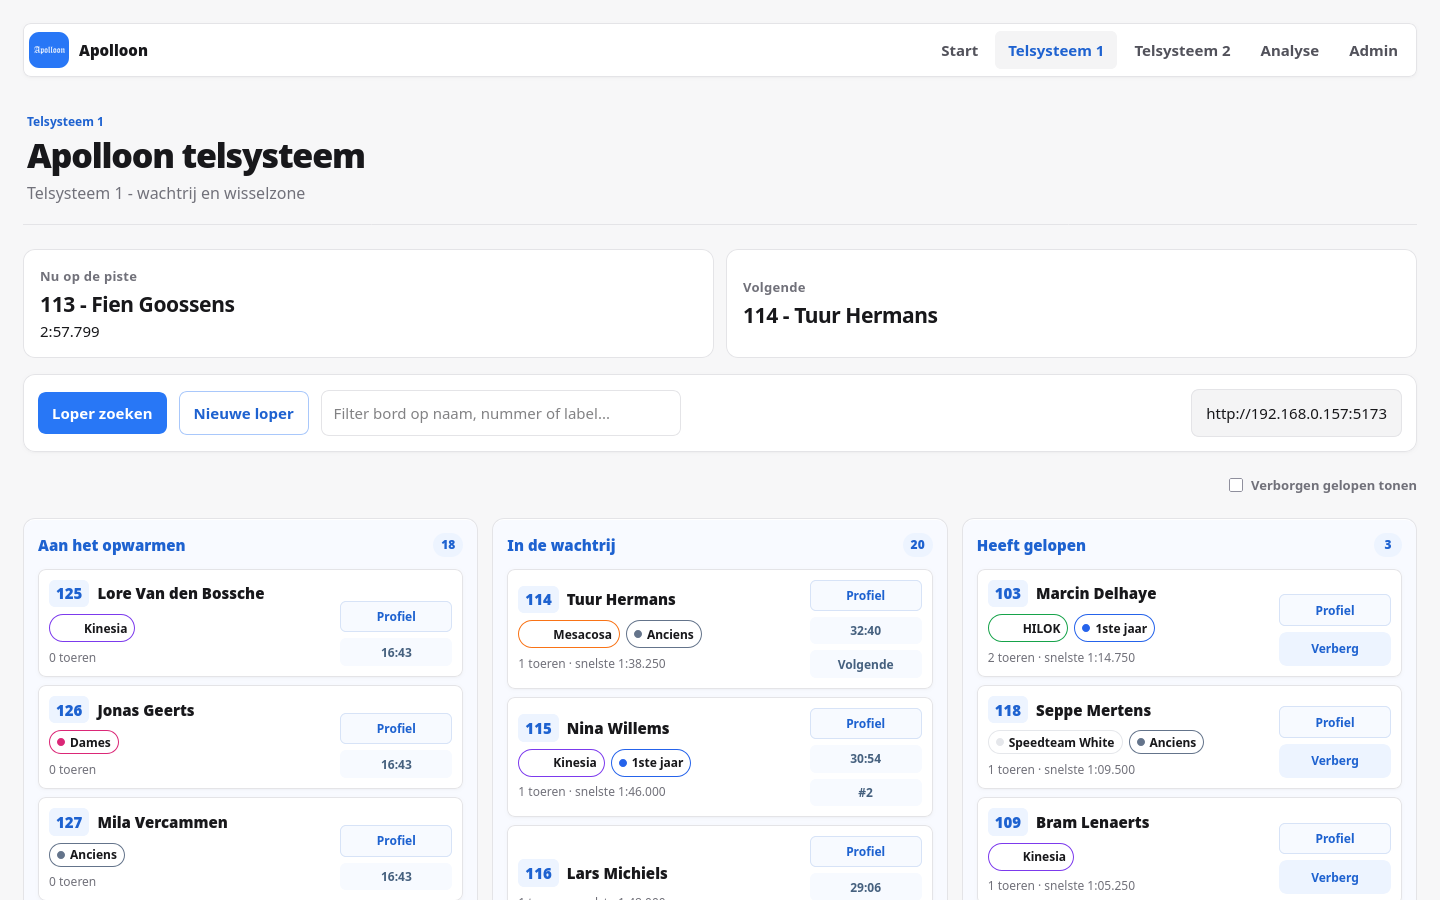
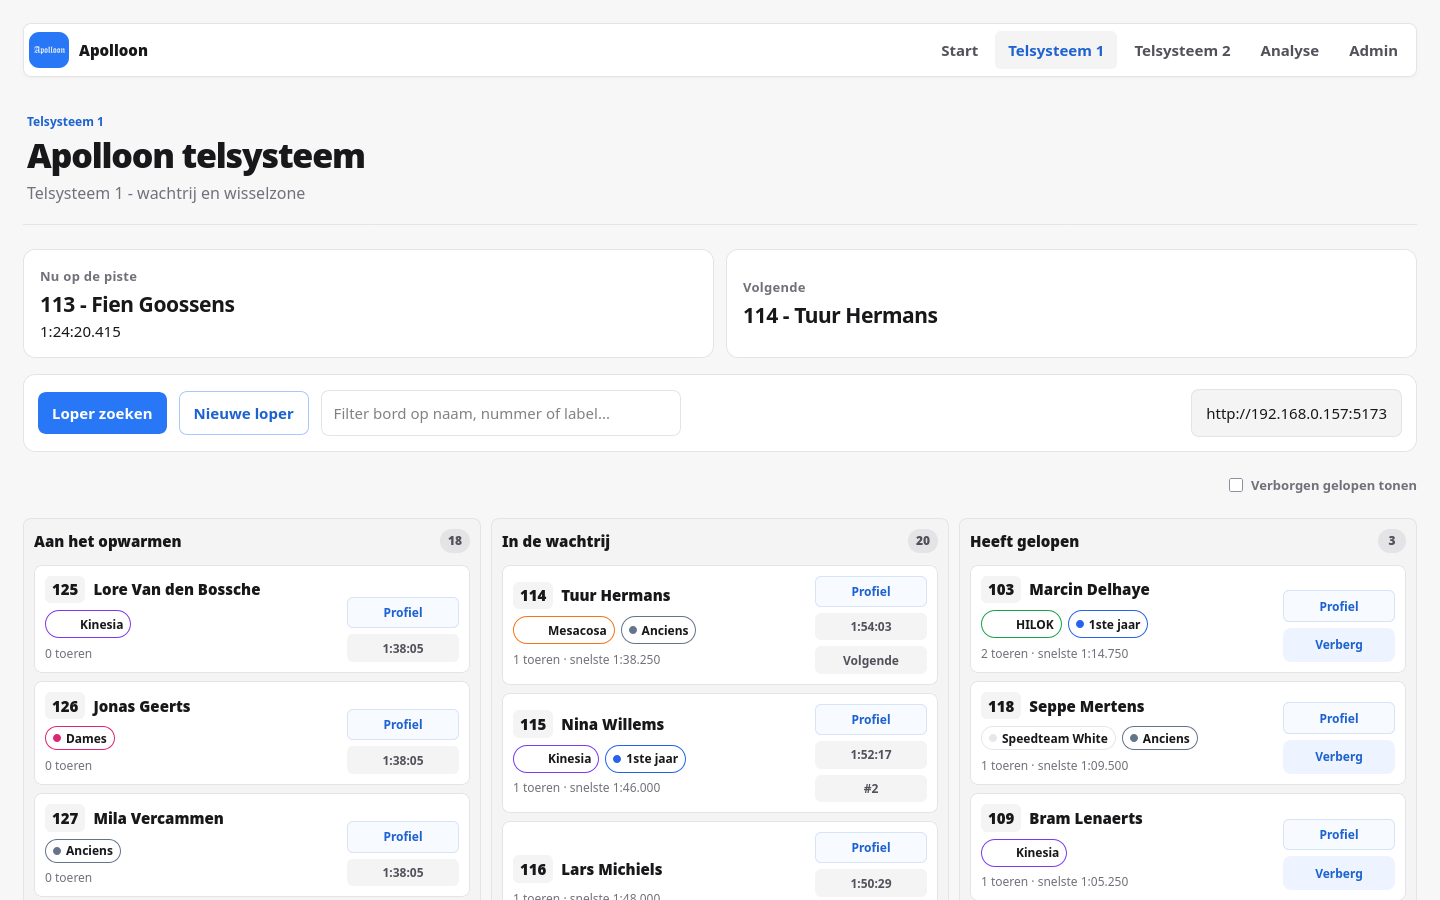
Redesign operator workspaces with quieter hierarchy

diff --git a/src/styles.css b/src/styles.css
@@ -345,7 +345,7 @@ select {
   background: var(--panel);
   border: 1px solid var(--line);
   border-radius: var(--radius-lg);
-  box-shadow: var(--shadow-xs);
+  box-shadow: none;
 }
 
 .export-row {
@@ -768,7 +768,7 @@ select {
 .kanban {
   display: grid;
   grid-template-columns: repeat(auto-fit, minmax(280px, 1fr));
-  gap: 14px;
+  gap: 10px;
 }
 
 .board-toolbar {
@@ -789,10 +789,10 @@ select {
 .column {
   min-height: 220px;
   border: 1px solid var(--line);
-  border-radius: var(--radius-lg);
-  background: #f8faff;
-  padding: 14px;
-  box-shadow: inset 0 1px 0 rgba(255, 255, 255, 0.9);
+  border-radius: var(--radius-md);
+  background: var(--panel-soft);
+  padding: 10px;
+  box-shadow: none;
   transition: border-color 140ms ease, background-color 140ms ease, box-shadow 140ms ease;
 }
 
@@ -808,7 +808,7 @@ select {
   align-items: center;
   gap: 8px;
   margin-bottom: 12px;
-  color: var(--blue-dark);
+  color: var(--text);
   font-size: 15px;
   font-weight: 800;
 }
@@ -816,8 +816,8 @@ select {
 .column-count {
   min-width: 28px;
   border-radius: var(--radius-pill);
-  background: var(--blue-soft);
-  color: var(--blue-dark);
+  background: var(--panel-strong);
+  color: var(--muted-strong);
   padding: 3px 8px;
   font-size: 12px;
   font-weight: 800;
@@ -842,13 +842,13 @@ select {
   border-radius: var(--radius-md);
   background: var(--panel);
   padding: 10px;
-  box-shadow: var(--shadow-xs);
+  box-shadow: none;
   transition: border-color 140ms ease, box-shadow 140ms ease;
 }
 
 .card:hover {
-  border-color: rgba(40, 119, 246, 0.35);
-  box-shadow: var(--shadow-sm);
+  border-color: var(--line-strong);
+  box-shadow: none;
 }
 
 .card--dragging {
@@ -896,8 +896,8 @@ select {
 
 .runner-number {
   border-radius: var(--radius-sm);
-  background: var(--blue-soft);
-  color: var(--blue-dark);
+  background: var(--panel-soft);
+  color: var(--text);
   padding: 3px 7px;
 }
 
@@ -979,8 +979,8 @@ select {
 .timer-badge,
 .queue-badge {
   border-radius: var(--radius-sm);
-  background: var(--blue-faint);
-  color: #46617f;
+  background: var(--panel-soft);
+  color: var(--muted-strong);
   padding: 5px 9px;
   font-size: 12px;
   font-weight: 700;
@@ -1061,7 +1061,7 @@ select {
 .timing-grid {
   display: grid;
   grid-template-columns: repeat(auto-fit, minmax(280px, 1fr));
-  gap: 16px;
+  gap: 12px;
 }
 
 .timing-card {
@@ -1069,19 +1069,20 @@ select {
   background: var(--panel);
   padding: clamp(20px, 4vw, 34px);
   border: 1px solid var(--line);
-  border-radius: var(--radius-lg);
-  box-shadow: var(--shadow-sm);
+  border-radius: var(--radius-md);
+  box-shadow: none;
 }
 
 .timing-card--accent {
-  border-color: transparent;
-  background: linear-gradient(135deg, var(--apolloon-blue), var(--blue-dark));
-  color: #ffffff;
-  box-shadow: var(--shadow-blue);
+  border-color: var(--line);
+  border-left: 4px solid var(--apolloon-blue);
+  background: var(--panel);
+  color: var(--text);
+  box-shadow: none;
 }
 
 .timing-card--accent .muted-label {
-  color: rgba(255, 255, 255, 0.84);
+  color: var(--blue-dark);
 }
 
 .timing-card strong {
@@ -1099,13 +1100,17 @@ select {
   font-weight: 800;
 }
 
+.timing-card--accent .live-time {
+  color: var(--blue-dark);
+}
+
 .handoff-preview {
   margin-top: 14px;
   padding: 14px 16px;
   background: var(--panel);
   border: 1px solid #bbf7d0;
   border-radius: var(--radius-md);
-  box-shadow: var(--shadow-xs);
+  box-shadow: none;
 }
 
 .handoff-preview strong {
@@ -1147,8 +1152,8 @@ select {
 
 .admin-dashboard {
   display: grid;
-  grid-template-columns: minmax(360px, 1.35fr) minmax(280px, 0.65fr) minmax(360px, 1fr);
-  gap: 14px;
+  grid-template-columns: repeat(2, minmax(360px, 1fr));
+  gap: 12px;
   align-items: start;
   margin-bottom: 14px;
 }
@@ -1163,6 +1168,7 @@ select {
 }
 
 .admin-dashboard__import {
+  grid-column: 1 / -1;
   container-type: inline-size;
 }
 
@@ -1190,7 +1196,7 @@ select {
 
 .stats-grid--analysis .stat-panel {
   min-height: 104px;
-  background: linear-gradient(180deg, #ffffff 0%, var(--blue-faint) 100%);
+  background: var(--panel);
 }
 
 .stats-grid--analysis .stat-panel strong {
@@ -1258,8 +1264,8 @@ select {
 }
 
 .label-toggle-row.is-on {
-  border-color: rgba(40, 119, 246, 0.55);
-  background: var(--blue-faint);
+  border-color: var(--line-strong);
+  background: var(--panel-soft);
 }
 
 .label-toggle-name {
@@ -1452,12 +1458,11 @@ th {
   position: sticky;
   top: 0;
   z-index: 1;
-  background: #f8faff;
+  background: var(--panel-soft);
   color: var(--muted);
   font-size: 12px;
   font-weight: 700;
-  letter-spacing: 0.035em;
-  text-transform: uppercase;
+  letter-spacing: 0;
 }
 
 td {
